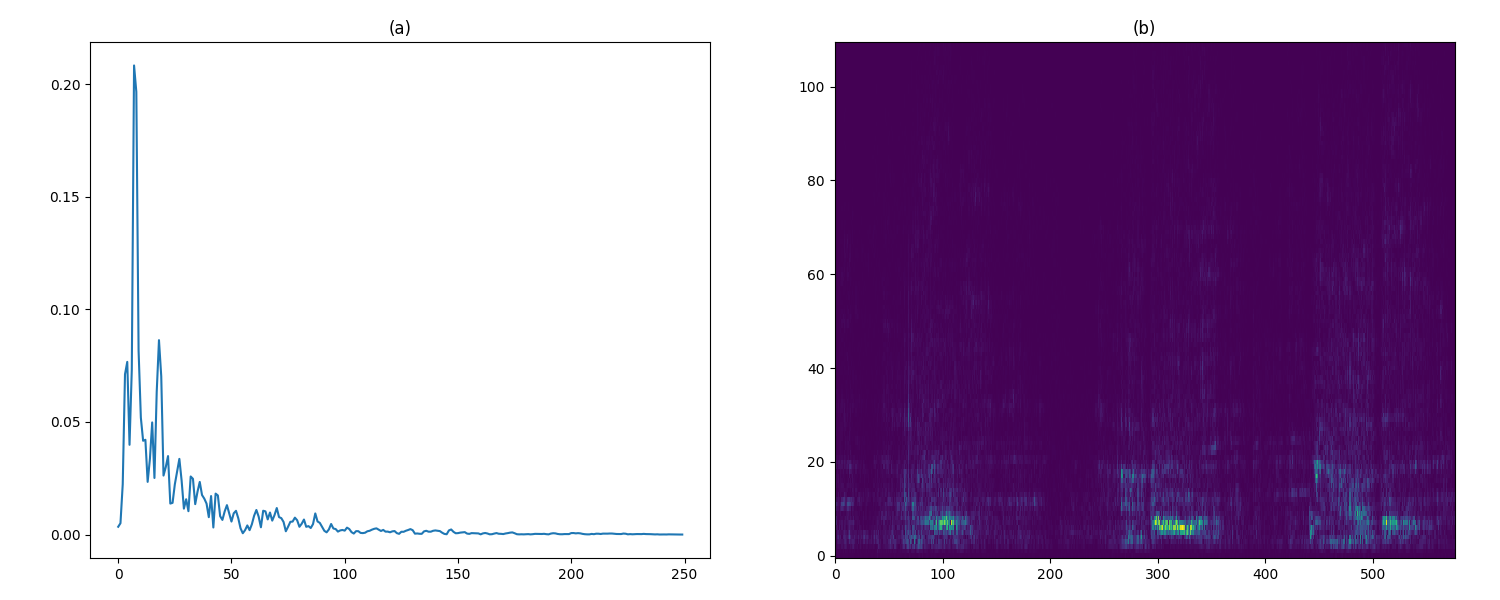
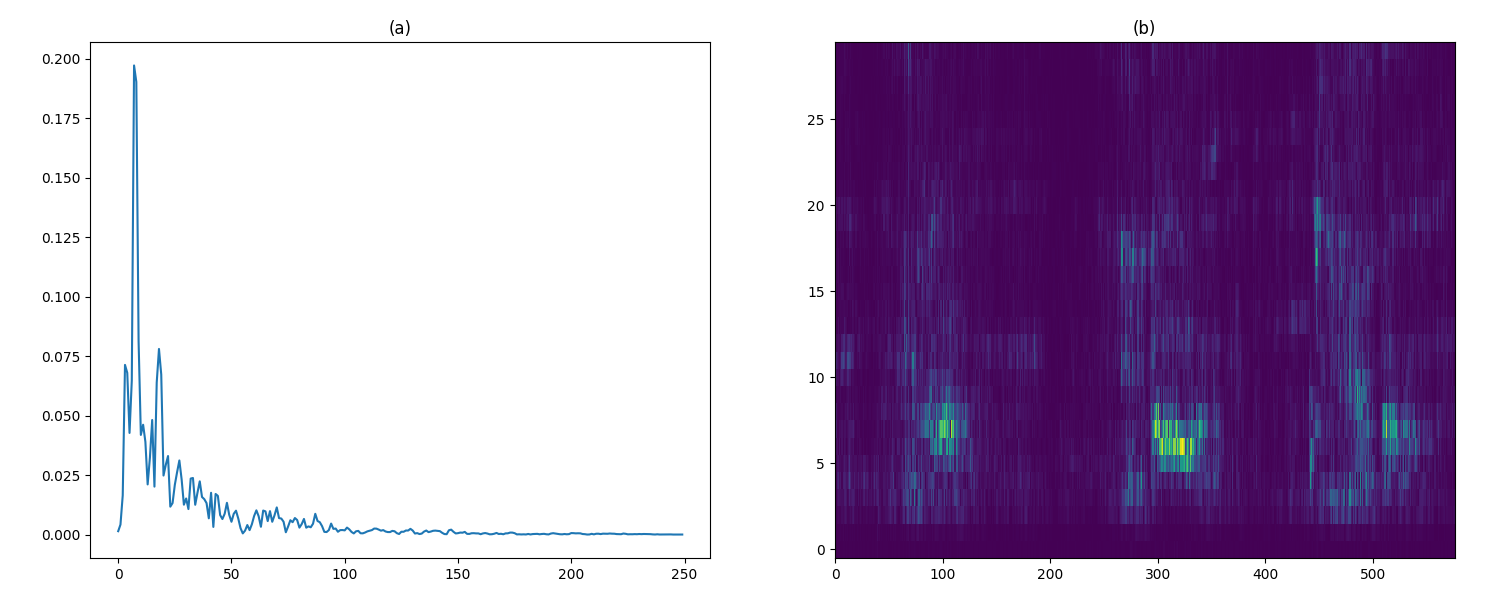
added delta and delta-delta to MFCC

diff --git a/thesis/chapters/1_features/mfcc.tex b/thesis/chapters/1_features/mfcc.tex
@@ -1,6 +1,6 @@
 Los \textit{Mel Frequency Cepstral Coefficients} (MFCC)~\cite{Davis80} son coeficientes para la representación del habla basados en la percepción auditiva humana.
 Su objetivo es caracterizar el contenido relevante de la señal, obviando aquellas características que poseen información poco valiosa como el ruido de fondo, emociones, volumen, tono, etc.
-Si bien fueron desarrollados para tareas asociadas al reconocimiento automático del habla, igualmente han tenido una amplia aplicación en áreas relacionadas al procesamiento de señales musicales y bioacústicas~\cite{McKinney03,Dufour14,Clemins05,Lee06,Li01,Cowling03,Mitrovic06}.
+Si bien fueron desarrollados para tareas asociadas al reconocimiento automático del habla, igualmente han tenido una amplia aplicación en áreas relacionadas al procesamiento de señales musicales y bioacústicas~\cite{McKinney03,Dufour14,Clemins05,Lee06,Li01,Cowling03,Mitrovic06,Fagerlund07}.
 
 Los MFCC se basan en la característica del sistema auditivo humano que provoca que para este sea más difícil discernir entre dos frecuencias cercanas cuanto más altas ellas sean.
 La \textbf{escala Mel} (figura~\ref{img:mel-scale}) fue desarrollada con el propósito de representar esta propiedad, permitiendo medir las frecuencias de un modo más acorde a la percepción humana de estas, mediante el uso de la unidad de medida conocida como \textit{Mel}.
@@ -68,8 +68,8 @@ A partir de todo lo anterior podemos definir el algoritmo para el cálculo de lo
 \end{algorithm}
 
 Los pasos del 1 al 4 cumplen la meta de lograr un <<resumen>> de la energía presente en la señal que se corresponda con la percepción humana del sonido.
-El paso número 5, persigue eliminar la correlación entre los coeficientes producida por el hecho de que las tramas se superponen.
-Gracias a la aplicación de la DCT, se obtiene un vector de componentes independientes entre sí (no correlacionadas), y por lo tanto este puede ser utilizado en procedimientos que así lo requieran.
+El paso número 5, persigue eliminar la correlación entre los coeficientes.
+Gracias a la aplicación de la DCT, se obtiene un vector de componentes independientes entre sí (no correlacionadas), y por lo tanto este puede ser utilizado en otros procedimientos que así lo requieran.
 
 La DCT se calcula mediante la siguiente ecuación:
 \begin{equation}
@@ -77,7 +77,31 @@ La DCT se calcula mediante la siguiente ecuación:
     f[j] = \sum_{m=0}^{M-1}{e[m]\cos{\left[ \frac{\pi}{M}j\left( m + \frac{1}{2} \right) \right]}}
 \end{equation}
 
-Generalmente se usan bancos de $M=26$ filtros y solamente se conservan los primeros 12 o 13 coeficientes;
-esto último debido a que los coeficientes de mayor índice suelen representar fluctuaciones altas en las energías del banco de filtros, y que no aportan información significativa~\cite{Davis80}.
+Generalmente se usan bancos de entre 20 y 40 filtros y solamente se conservan los primeros 12 o 13 coeficientes;
+esto último debido a que la representación obtenida a partir de la aplicación de la DCT suele comprimir la información relevante en los primeros coeficientes, quedando poco valor en los más altos~\cite{Davis80}.
 
-% TODO Deltas and Delta-Deltas
+\begin{figure}[!h]
+    \centering
+    \includegraphics[width=\textwidth]{mfcc.png}
+    \caption{Coeficientes MFCC del sonido de la figura~\ref{img:oscillogram}, para tramas de 1024 muestras con un tamaño de paso de 512 y empleando \textit{Hamming} como ventana.}
+    \label{img:mfcc}
+\end{figure}
+
+Los coeficientes \textbf{delta} y \textbf{delta-delta}, también conocidos como \textit{diferenciales} y \textit{de aceleración} respectivamente,
+constituyen una posible mejora al vector de los MFCC.
+Estos incluyen información relativa al comportamiento de la energía espectral en el tiempo, que complementa la información estática de una trama que recogen los MFCC.
+Para calcular los coeficientes delta aplicamos la siguiente fórmula:
+
+\begin{equation}
+    \label{eq:delta}
+    d_t = \frac{\sum_{n=1}^{T}{n(c_{t+n} - c_{t-n})}}{2\sum_{n=1}^{T}{n^2}}
+\end{equation}
+
+\noindent
+donde $d_t$ es el vector de coeficientes delta correspondiente a la trama $t$, y $c_{t+n}$ y $c_{t-n}$ son los MFCC de las tramas posteriores y anteriores respectivamente.
+El valor de la cantidad de tramas adyacentes a explorar ($T$) suele ser 2.
+
+Los coeficientes delta-delta pueden ser calculados de igual forma aplicando~(\ref{eq:delta}) empleando los delta en lugar de los MFCC.
+
+A menudo sucede que un segmento de audio está compuesto por más de una trama, de manera que los procedimientos que se han descrito en esta sección producen no un único vector de características sino uno por cada trama del segmento.
+Para solucionar esta situación, se construye un único vector con los promedios componente a componente de todos los de la secuencia obtenida~\cite{Lee06,Fagerlund07}.

diff --git a/code/sound_visualizations.py b/code/sound_visualizations.py
@@ -1,8 +1,6 @@
-from essentia.standard import *
-
 import matplotlib.pyplot as plt
-
-from pylab import plot, show, figure
+from essentia.standard import *
+from pylab import plot, show, figure, imshow
 
 plt.rcParams['figure.figsize'] = (15, 6)
 
@@ -11,8 +9,9 @@ plot(audio)
 plt.title("Puma concolor")
 show()
 
-w = Windowing(type='hann')
+w = Windowing(type='hamming')
 spectrum = Spectrum()  # FFT() would return the complex FFT, here we just want the magnitude spectrum
+mfcc = MFCC()
 
 frame = audio[1 * 44100: 1 * 44100 + 1024]
 spec = spectrum(w(frame))
@@ -25,17 +24,25 @@ ax.plot(spec[:250])
 ax.set_title('(a)')
 
 specs = []
+mfccs = []
 
 for frame in FrameGenerator(audio, frameSize=1024, hopSize=512, startFromZero=True):
     spec = spectrum(w(frame))
+    _, mfcc_coeffs = mfcc(spec)
     specs.append(spec)
+    mfccs.append(mfcc_coeffs)
 
 # transpose to have it in a better shape
 # we need to convert the list to an essentia.array first (== numpy.array of floats)
 specs = essentia.array(specs).T
+mfccs = essentia.array(mfccs).T
 
 ax = fig.add_subplot(1, 2, 2)
-ax.imshow(specs[:110, :], aspect='auto', origin='lower', interpolation='none')
+ax.imshow(specs[:30, :], aspect='auto', origin='lower', interpolation='none')
 ax.set_title('(b)')
 
 fig.show()
+
+imshow(mfccs[:, :], aspect='auto', origin='lower', interpolation='none')
+plt.title('MFCCs in frames')
+show()

diff --git a/thesis/main.tex b/thesis/main.tex
@@ -95,7 +95,7 @@
     %    \chapter{Evaluación del Clustering}\label{ch:evaluation}
     %    \input{chapters/4_evaluation/evaluation}
     %
-    %    \chapter{Resultados}\label{ch:results}
+    %    \chapter{Experimentación y Resultados}\label{ch:results}
     %    \input{chapters/5_results/results}
     %
 
